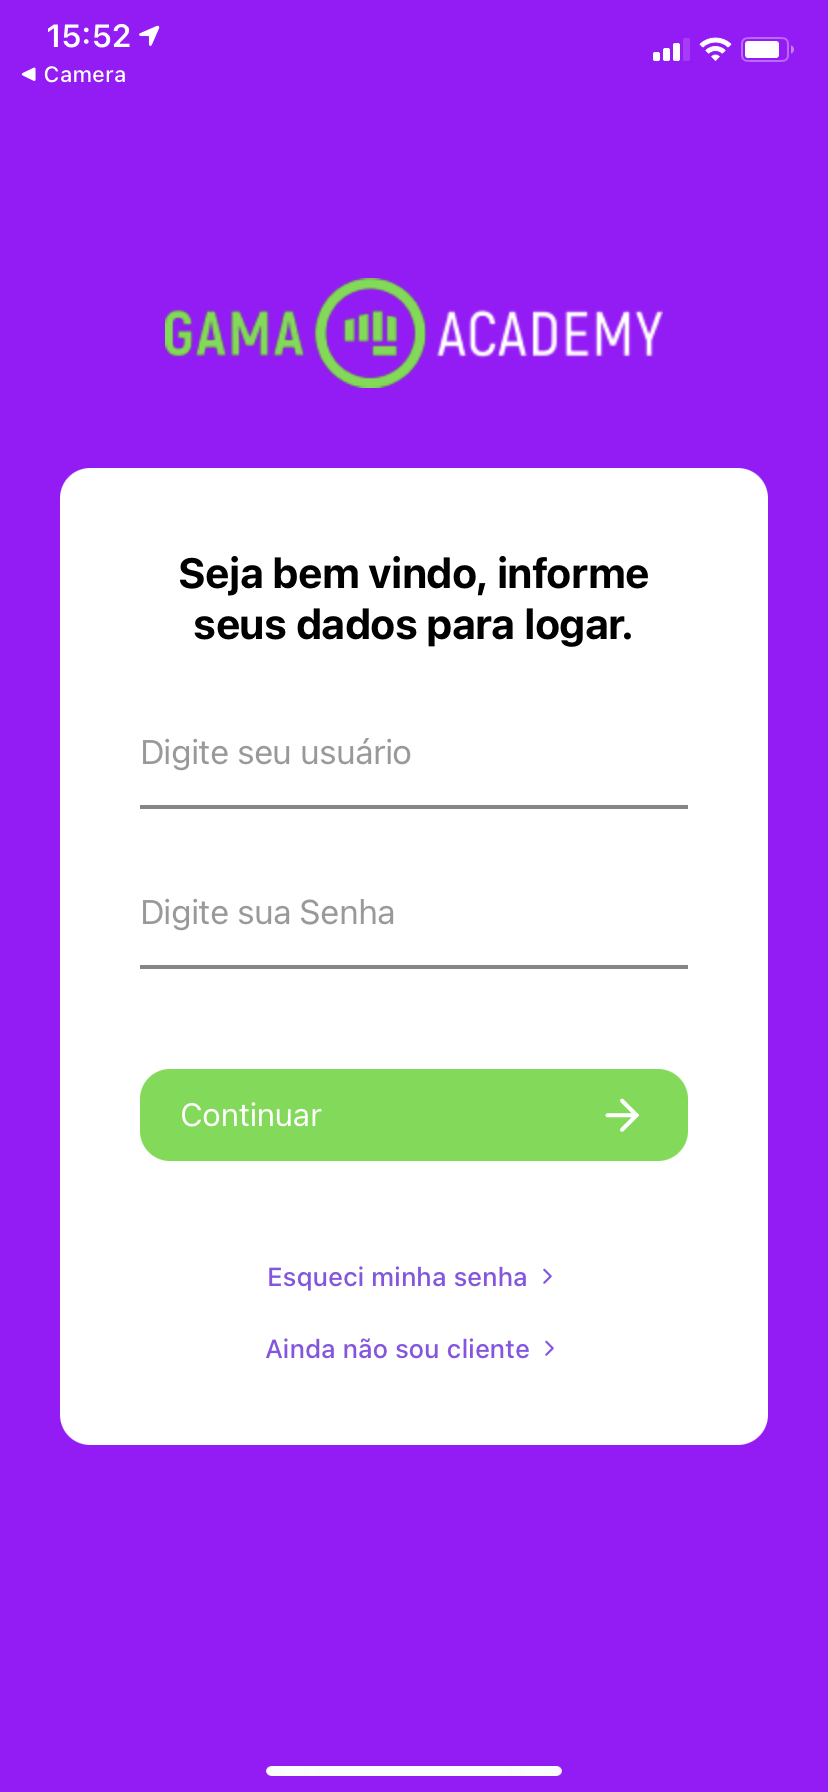
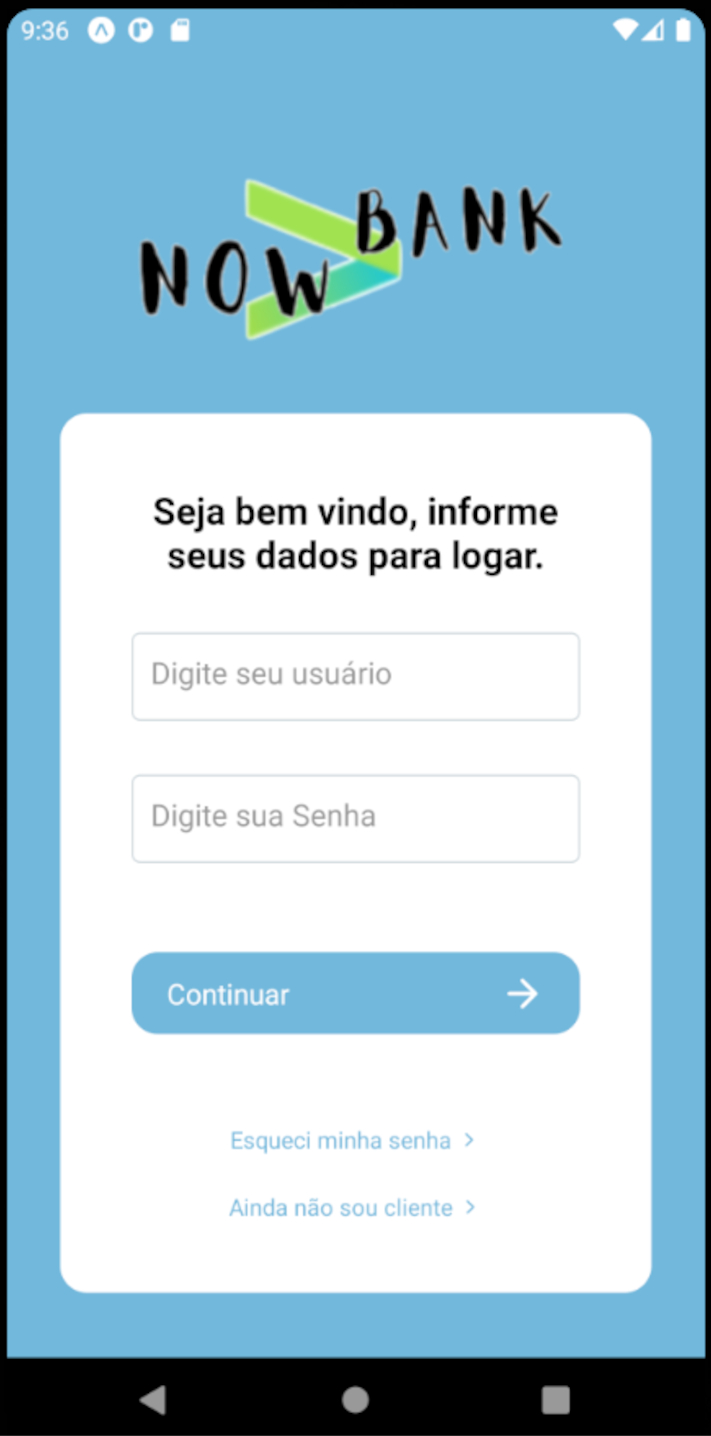
updated readme and project information

diff --git a/README.md b/README.md
@@ -1,43 +1,47 @@
-## Desafio REACT NATIVE | GAMA | ACCENTURE
-
-![screen](./screen.jpeg)
-
-Esta é a continuação do desafio de React, fique atendo às especificações.
-
-Para iniciar seu projeto você deve:
-Baixar o repositório e instalar todas as dependências usando `yarn` ou `npm i`.
-
-Para iniciar o projeto em modo desenvolvimento use o comando `yarn start` ou `npm run start`.
-
-# Para cumprir seu desafio você deve:
-
-1 - Em grupo adapte ao layou do seu projeto.
-
-2 - Iniciar seu projeto, você deve clonar este repositório e criar um novo para o grupo.
-
-3 - Se atente as funcionalidades, complete os gaps.
-
-4 - A estilização é de livre escolha, você pode usar qualquer pacote de sua preferêcia para a entrega final.
-
-5 - Atente-se a tipagem.
-
-6 - Atenção ao métodos de nossa api. Para saber mais, [clique aqui](https://accenture-java-desafio.herokuapp.com/swagger-ui.html#/).
-
-7 - Sua aplicação deve ter as mesmas funcionalidades da versão que disponibilizamos online, você pode acessar clicando [aqui](https://react-accenture.vercel.app/).
-
-8 - Link de sua To do deve acompanhar na documentação de seu projeto.
-
-[Swagger](https://accenture-java-desafio.herokuapp.com/swagger-ui.html#/)
-
-[Arquivo de Referência para API - Insomnia](https://drive.google.com/file/d/1QJ5MnaidHOO4iRihoUB6rsvA-E99OIAQ/view?usp=sharing)
-
-[Visualizar projeto online](https://react-accenture.vercel.app/)
-
-- [x] Marque o usuário @mrdouglasmorais em seu entregavel.
-- [x] Documente o seu entregável.
-- [x] Temos um modelo de organização de tarefas você pode visualizar [clicando aqui](https://www.notion.so/2cb3a2864f5143f99a2bc3b4e7cb1247?v=bb4cfdb8149041e0974c3c6f5cf6573d).
-- [x] Em caso de dúvidas, chamem no Slack.
+# NOW BANK
 
 
-Boa sorte!
-Att: Douglas 
+![screen](./screen.png)
+
+This is a project of a fake bank React Native App.
+
+There is also a Web version [demo here](404-bank.vercel.app)
+
+## About:
+
+Project based on Accenture & Gama Academy's React Native Challenge
+Fake Bank React Native Application created on top of [Douglas Morais desafio-react-native-accenture](https://github.com/mrdouglasmorais/desafio-react-native-accenture)
+
+**Now Bank** communicates using REST endpoints. You can find the API Documentation [here](https://accenture-java-desafio.herokuapp.com/swagger-ui.html#/)
+
+Project written in [TypeScript](https://www.typescriptlang.org/)
+
+Since this challenge had a very short timeline, some of the functionalities in the Web version were not added in the React Native version.
+
+### Tech stack
+
+ 1. React, React Native, Expo.
+ 2. Redux
+ 3. Axios
+ 4. Styled components
+ 5. Unform
+ 6. Yup
+ 7. Jest
+
+## Running Now Bank
+
+Clone this repository
+
+Install all dependencies with
+
+`npm install`
+
+Start the project with
+
+`expo start`
+
+
+## Contributions
+This project is not going to be improved. If you want to use it as a base for your app, you can fork this project.
+
+
